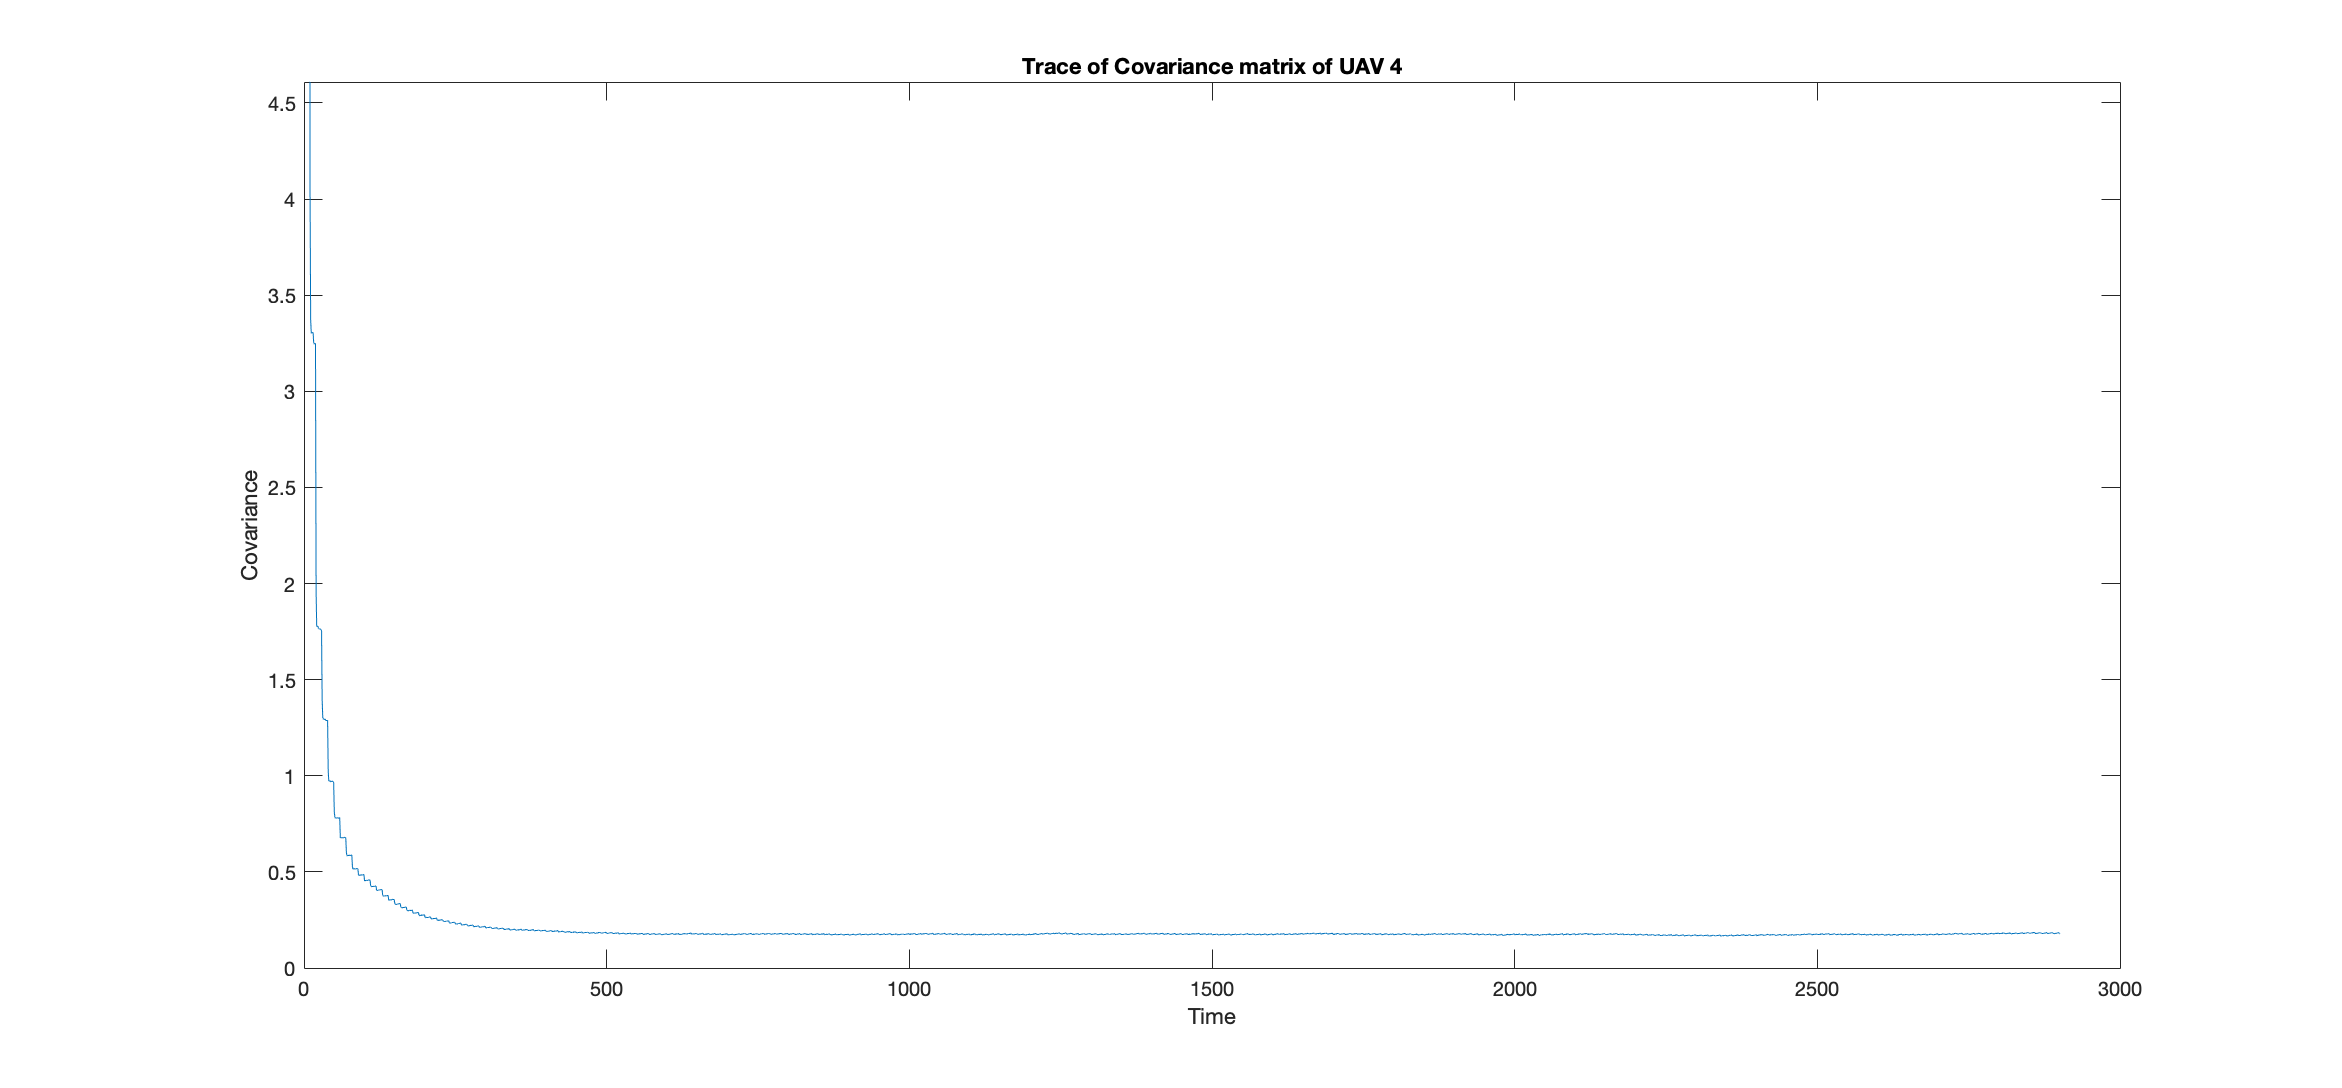
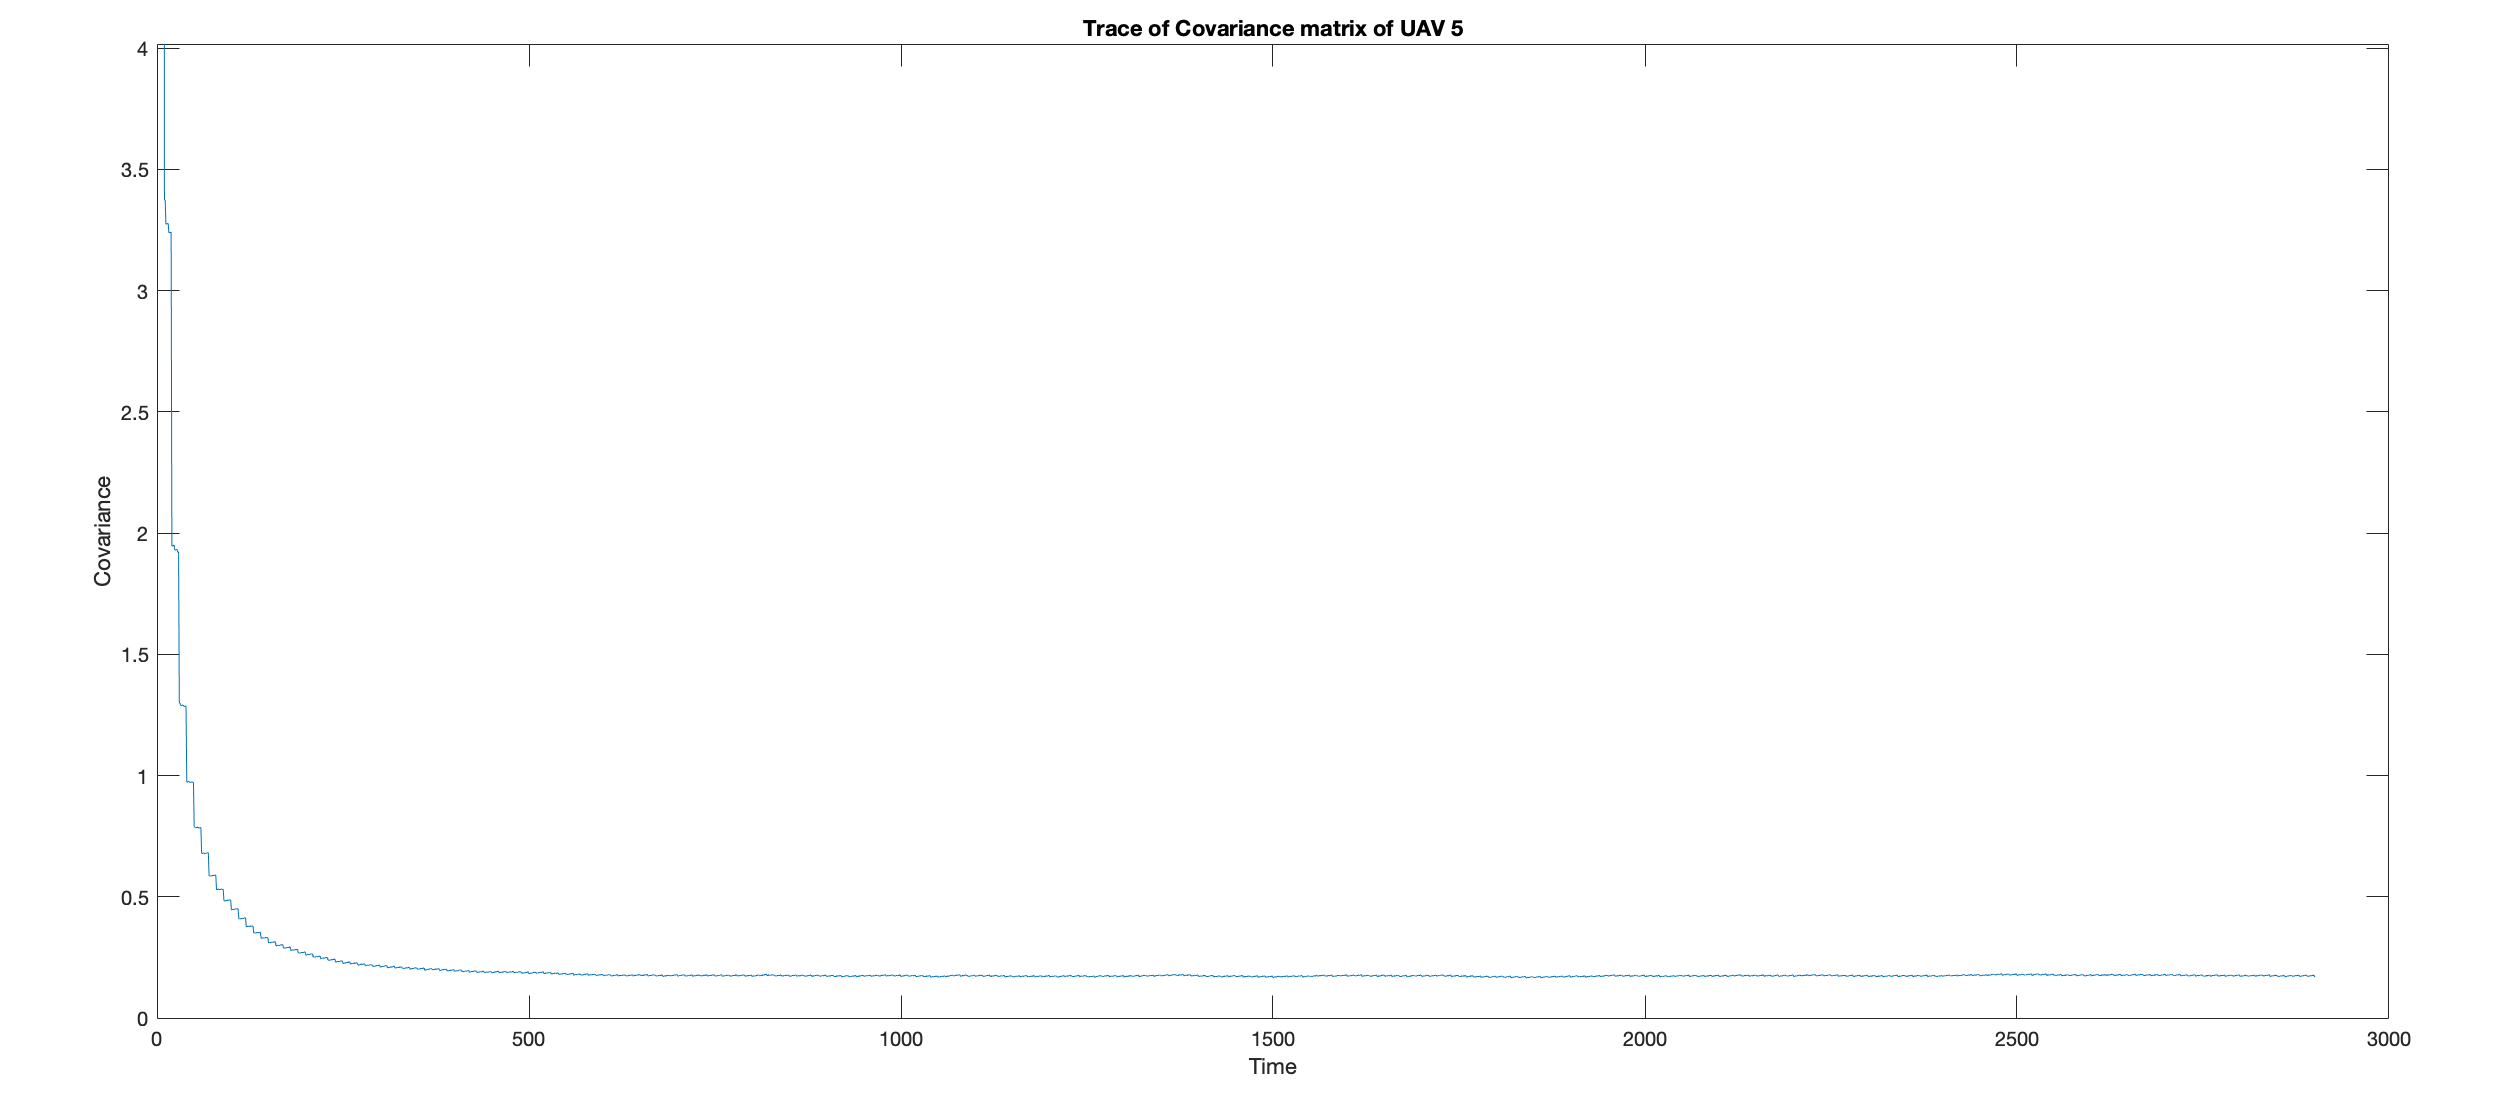
some changing

diff --git a/Project/main.m b/Project/main.m
@@ -11,16 +11,16 @@ tot_iter = round((T_sim - 1)/dt + 1);           % Total number of iterations
 
 DO_SIMULATION = true;
 UAV_FAIL = false;
-PLOT_ENVIRONMENT = true;
 
-PLOT_DENSITY_FUNCTIONS = false;
+PLOT_ENVIRONMENT = false;
+PLOT_DENSITY_FUNCTIONS = true;
 PLOT_TRAJECTORIES = true;
-PLOT_COVARIANCE_TRACE = false;
+PLOT_COVARIANCE_TRACE = true;
 PLOT_CONSENSUS = true;
-PLOT_EKF_ERROR = false;
+PLOT_EKF_ERROR = true;
 
 PLOT_ITERATIVE_SIMULATION = false;
-ANIMATION = true;
+ANIMATION = false;
 
 if ANIMATION == true
     DO_SIMULATION = true;
@@ -33,7 +33,7 @@ vel_lin_min = 50;                   % Minimum linear velocity [m/s]
 vel_lin_z_max = 100;                % Maximum linear velocity along z [m/s]
 vel_ang_max = 15;                   % Maximum angular velocity [rad/s]
 dim_UAV = 4;                        % Dimension of the UAV
-numUAV = 6;                         % Number of UAV
+numUAV = 5;                         % Number of UAV
 Kp_z = 100;                         % Proportional gain for the linear velocity along z
 Kp = 50;                            % Proportional gain for the linear velocity  
 Ka = 10;                            % Proportional gain for the angular velocity
@@ -41,7 +41,7 @@ height_flight = 30;                 % Height of flight from the ground
 
 % Take Off
 takeOff = true;
-freq_takeOff = 50;                  % Time distance between each takeoff 
+freq_takeOff = 60;                  % Time distance between each takeoff 
 n = 1;
 
 % Refill
@@ -164,7 +164,7 @@ sigma_fire1 = 50;                           % Standard deviation of the first fi
 % Simulated moving fire 2
 pos_fire2_mov = @(t) [x_fire2 - 2.5 * (t - 1) , y_fire2 + 1 * (t - 1)]; % t start from 1
 
-sigma_fire2 = 25; a                          % Standard deviation of the second fire
+sigma_fire2 = 25;                           % Standard deviation of the second fire
                                             % (corresponding to the extention of the fire)
 
 inc_threshold1 = sigma_fire1 * drop_dist;   % Distance that has to be reach from the fire 1 
@@ -190,7 +190,7 @@ for i = 1:numUAV
 end
 
 % Decreasing factor of the fire
-deacreasingFire_factor = 2;                 % Decreasing factor of the fire extension
+deacreasingFire_factor = 1;                 % Decreasing factor of the fire extension
                                             % (we assume that the fire decrease every time the UAV drop the water)
 
                                             
@@ -289,6 +289,8 @@ vy_Data = cell(1, tot_iter); % Celle per memorizzare i dati di vy
 
 % Drops time distance
 drop_times_diff = zeros(1,1);
+drop_times = zeros(1,1);
+
 % Measurementof the state
 measurements = zeros(numUAV, 4, tot_iter); % Initialize the measurements matrix 
 
@@ -482,9 +484,11 @@ if DO_SIMULATION
                 objective(i) = 2; % Change objective to 2 (heading to refill water)
                 meas_fire1(i) = 0;
 
-                dt_drop = count - drop_times_diff(end);
+                drop_times = [drop_times,count];
+
+                dt_drop = drop_times(end) - drop_times(end-1);
                 drop_times_diff = [drop_times_diff, dt_drop];
-                drops_f1 = drops_f1 +1;
+                drops_f1 = drops_f1 + 1;
 
             elseif dist_inc2(i) <= inc_threshold2(i) && objective(i) == 1
                 
@@ -499,7 +503,9 @@ if DO_SIMULATION
                 objective(i) = 2; % Change objective to 2 (heading to refill water)
                 meas_fire1(i) = 0;
 
-                dt_drop = count - drop_times_diff(end);
+                drop_times = [drop_times,count];
+
+                dt_drop = drop_times(end) - drop_times(end-1);
                 drop_times_diff = [drop_times_diff, dt_drop];
                 drops_f2 = drops_f2 + 1;
 
@@ -816,8 +822,8 @@ if DO_SIMULATION
 
     % SIMULATION EVALUATION 
     
-    disp(sprintf('Mean drop time distance: %f', mean(drop_times_diff(2:end))));
-    disp(sprintf('Number of drops: %d', size(drop_times_diff) - 1));
+    disp(sprintf('Mean drop time distance: %f ', mean(drop_times_diff(3:end))));
+    disp(sprintf('Total Number of drops: %d', size(drop_times_diff) - 1));
 
     disp(sprintf('Number of drops on the Fire 1: %d', drops_f1));
     disp(sprintf('Number of drops on the Fire 2: %d', drops_f2));
@@ -922,7 +928,7 @@ if ANIMATION
 
         end
 
-        plot(bx,x_water,y_water,'o','Color', 'b', 'MarkerSize', sigma_water);
+        plot(bx,x_water,y_water,'o','Color', 'b', 'MarkerSize', 90);
 
         for i = 1:numUAV
 
